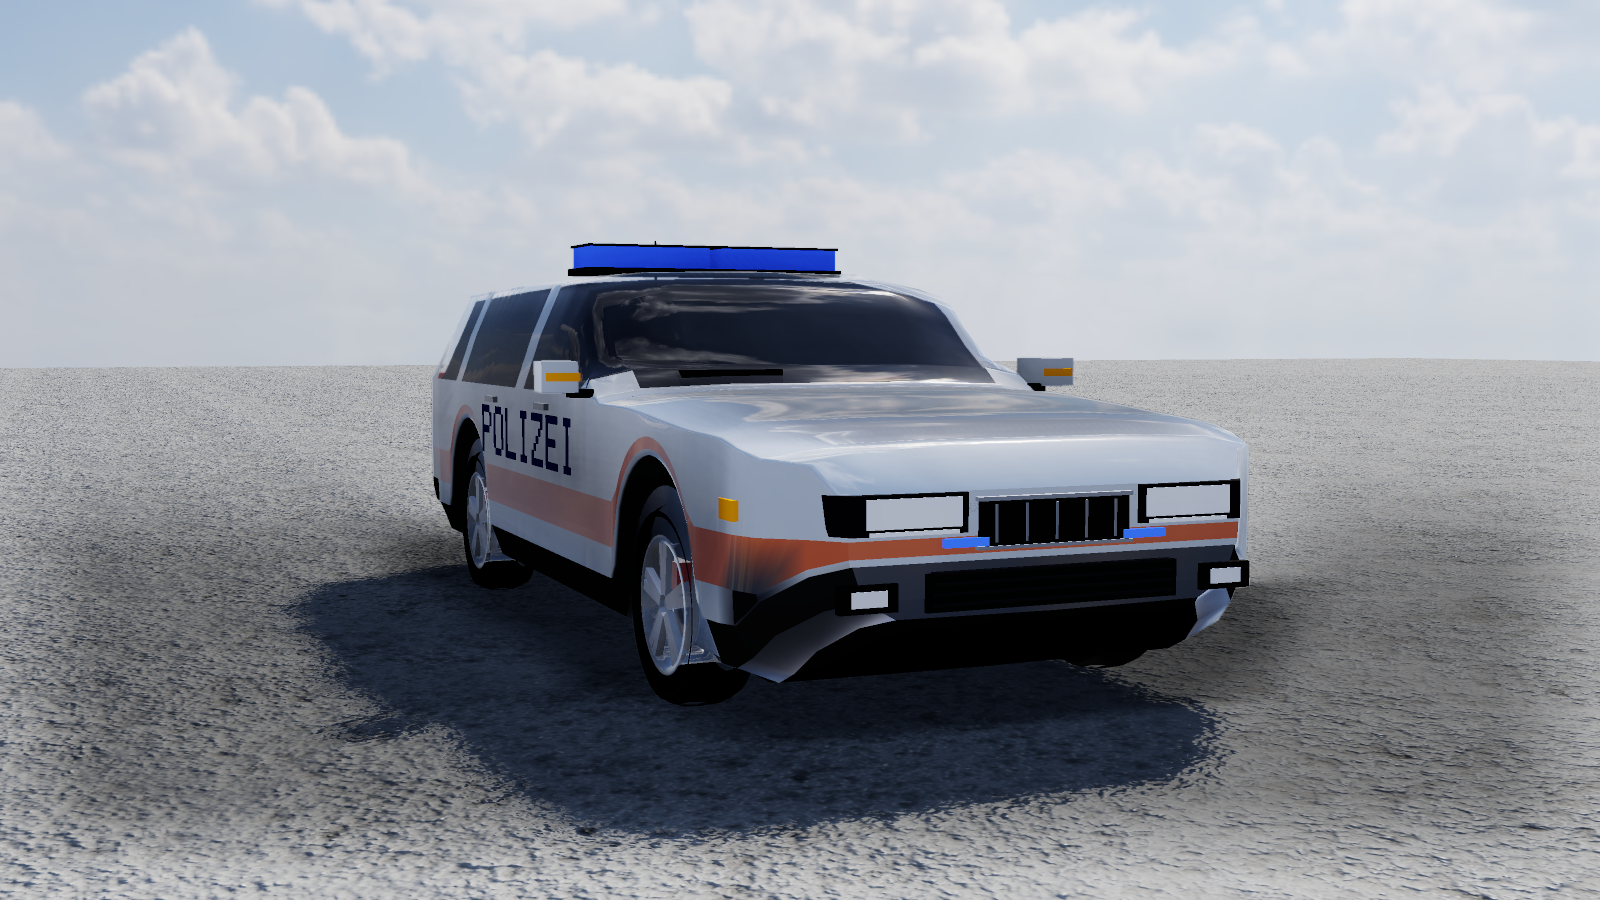
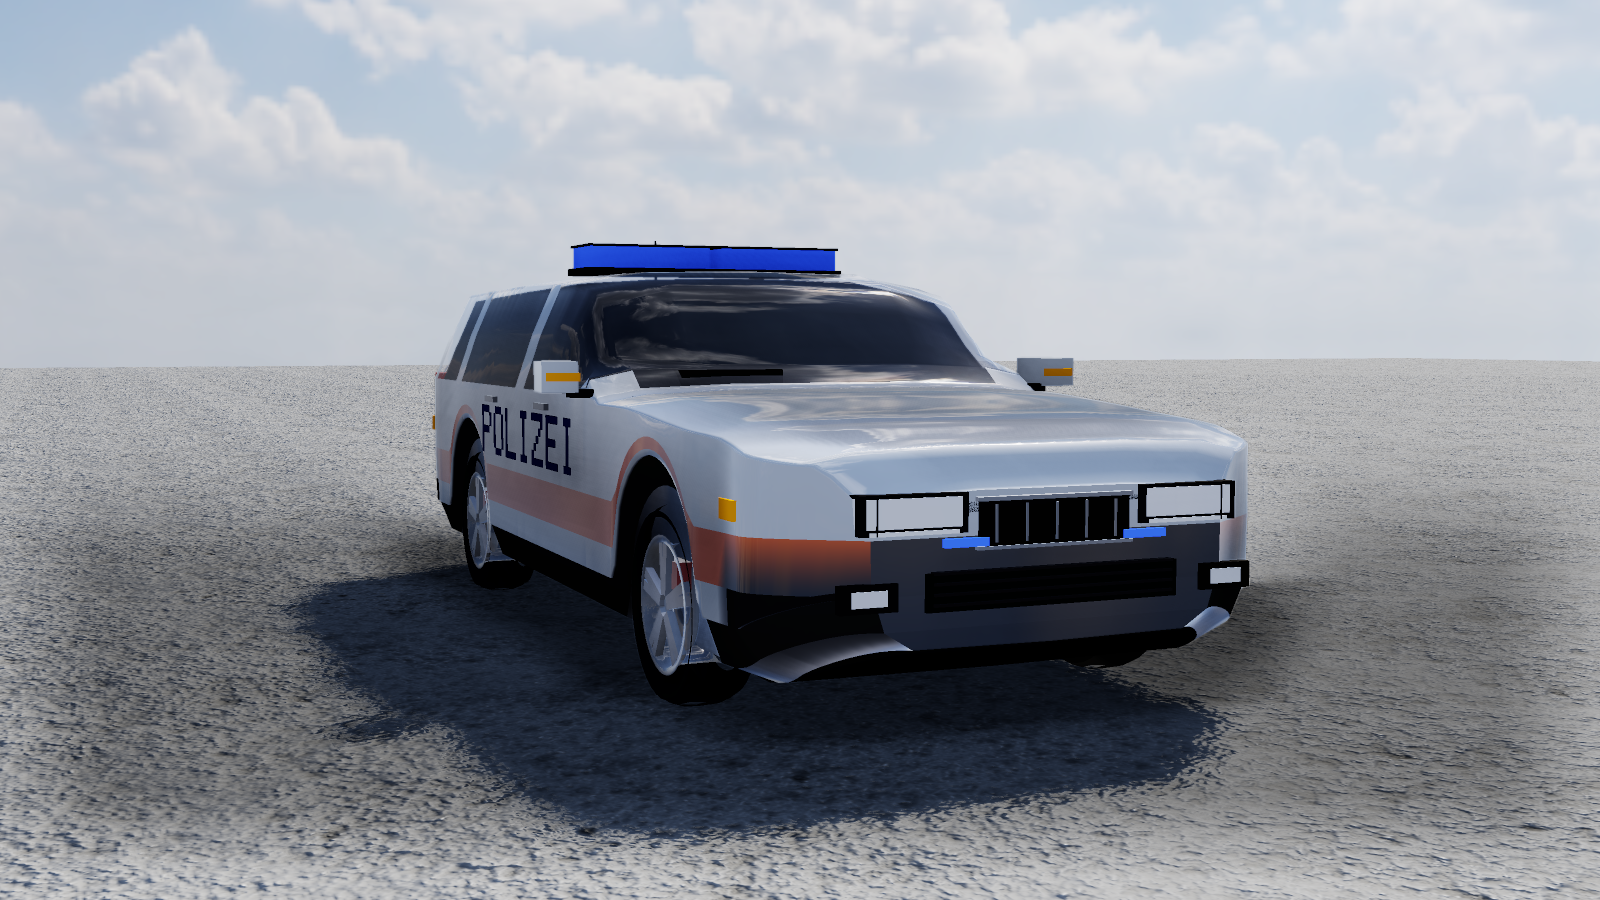
Car meshes: rounded nose/tail corners in plan view, lamps follow the rounded corners, smaller bumper sweep
Claude-Session: https://claude.ai/code/session_01EMZxu1m7ufyRctSBYZZkQY

Changed region(s): [[0.4375, 0.4667, 0.7812, 0.7467]]

diff --git a/Assets/SwissPoliceSim/Core/Meshing/CarMesher.cs b/Assets/SwissPoliceSim/Core/Meshing/CarMesher.cs
@@ -52,6 +52,14 @@ namespace SwissPoliceSim.Core.Meshing
             return p;
         }
 
+        /// <summary>Half width of the body at z including the rounded plan-view corners at nose and tail.</summary>
+        static float PlanW(Profile pr, float z, float zFront, float zRear)
+        {
+            float W = Eval(pr.Half, z);
+            float uF = Math.Max(0f, (z - (zFront - 0.34f)) / 0.34f), uR = Math.Max(0f, ((zRear + 0.30f) - z) / 0.30f);
+            return W * (float)Math.Sqrt(Math.Max(0.2f, 1f - 0.30f * uF * uF * uF)) * (float)Math.Sqrt(Math.Max(0.2f, 1f - 0.25f * uR * uR));
+        }
+
         static float Smooth(float t) { t = t < 0 ? 0 : (t > 1 ? 1 : t); return t * t * (3 - 2 * t); }
 
         static Profile ForRaw(BodyKind k)
@@ -133,6 +141,7 @@ namespace SwissPoliceSim.Core.Meshing
             for (float z = zRear; z <= zFront + 1e-4f; z += 0.1f) zs.Add((float)Math.Round(z, 3));
             foreach (var w in new[] { pr.SideWin0, pr.SideWin1, pr.SideWin2 }) { zs.Add(w[0]); zs.Add(w[1]); }
             for (float z = zRear + 0.04f; z < zRear + 0.5f; z += 0.04f) zs.Add((float)Math.Round(z, 3));
+            for (float z = zFront - 0.34f; z < zFront; z += 0.03f) zs.Add((float)Math.Round(z, 3));      // dense stations around the nose so the plan-view corners can be round
             foreach (var z in new[] { pr.RoofFront, pr.WindShieldBase, pr.RoofRear, pr.RearGlassEnd, zFront, zRear })
                 if (z > zRear && z < zFront) zs.Add(z);
             foreach (var wz in new[] { fa, ra })
@@ -189,7 +198,8 @@ namespace SwissPoliceSim.Core.Meshing
         static List<RP> HalfRing(Profile pr, float z, float fa, float ra, float archR, byte[] body, byte[] stripe, float zFront, float zRear)
         {
             float T = Eval(pr.Top, z), W = Eval(pr.Half, z);
-            float yb = pr.Clearance + 0.24f * Smooth((z - (zFront - 0.42f)) / 0.42f) + 0.17f * Smooth(((zRear + 0.36f) - z) / 0.36f);   // bumper sweeps up towards the tips (approach / departure angle)
+            W = PlanW(pr, z, zFront, zRear);
+            float yb = pr.Clearance + 0.15f * Smooth((z - (zFront - 0.42f)) / 0.42f) + 0.17f * Smooth(((zRear + 0.36f) - z) / 0.36f);   // bumper sweeps up towards the tips (approach / departure angle)
             // arch lift for the side bottom edge
             float lift = 0;
             foreach (var wz in new[] { fa, ra })
@@ -380,9 +390,9 @@ namespace SwissPoliceSim.Core.Meshing
         // ------------------------------------------------------------------ exterior details
         static void Details(MeshData m, BodyKind kind, Profile pr, CarModel model, CarLivery liv, float fa, float ra, float tx, float zf, float zr)
         {
-            float halfF = Eval(pr.Half, zf - 0.02f), halfR = Eval(pr.Half, zr + 0.02f);
+            float halfF = PlanW(pr, zf - 0.02f, zf, zr), halfR = PlanW(pr, zr + 0.02f, zf, zr);
             // ---- front: grille, intake, headlamp clusters, fog lamps, plate
-            float tipHalf = Eval(pr.Half, zf), innerHalf = Eval(pr.Half, zf - 0.32f);
+            float tipHalf = PlanW(pr, zf, zf, zr), innerHalf = PlanW(pr, zf - 0.32f, zf, zr);
             float taper = (float)Math.Atan2(innerHalf - tipHalf, 0.32f);
             MeshUtil.Box(m, SubTrim, 0, 0.665f, zf + 0.001f, 0.50f, 0.13f, 0.03f, 16, 16, 18);                  // upper grille
             MeshUtil.Box(m, SubChrome, 0, 0.735f, zf + 0.006f, 0.52f, 0.012f, 0.03f, 150, 152, 156);
@@ -396,7 +406,7 @@ namespace SwissPoliceSim.Core.Meshing
                 MeshUtil.Box(m, SubTrim, s * 0.46f, 0.700f, zf + 0.001f, 0.34f, 0.115f, 0.03f, 22, 22, 26);
                 MeshUtil.Box(m, SubLampFront, s * 0.46f, 0.704f, zf + 0.009f, 0.30f, 0.085f, 0.02f, 238, 240, 248);
                 MeshUtil.Box(m, SubLampFront, s * 0.46f, 0.648f, zf + 0.010f, 0.28f, 0.012f, 0.02f, 250, 252, 255);
-                float x1 = tipHalf - 0.02f, z1 = zf, z2 = zf - 0.30f, x2 = Eval(pr.Half, z2) - 0.03f;
+                float x1 = tipHalf - 0.02f, z1 = zf, z2 = zf - 0.30f, x2 = PlanW(pr, z2, zf, zr) - 0.03f;
                 float cx = s * (x1 + x2) * 0.5f, cz = (z1 + z2) * 0.5f, len = (float)Math.Sqrt((x2 - x1) * (x2 - x1) + (z2 - z1) * (z2 - z1));
                 float yaw = s * (float)Math.Atan2(-(z2 - z1), x2 - x1);
                 float nx = (z2 - z1) * s, nz = -(x2 - x1);   // outward normal offset direction (approx.)
